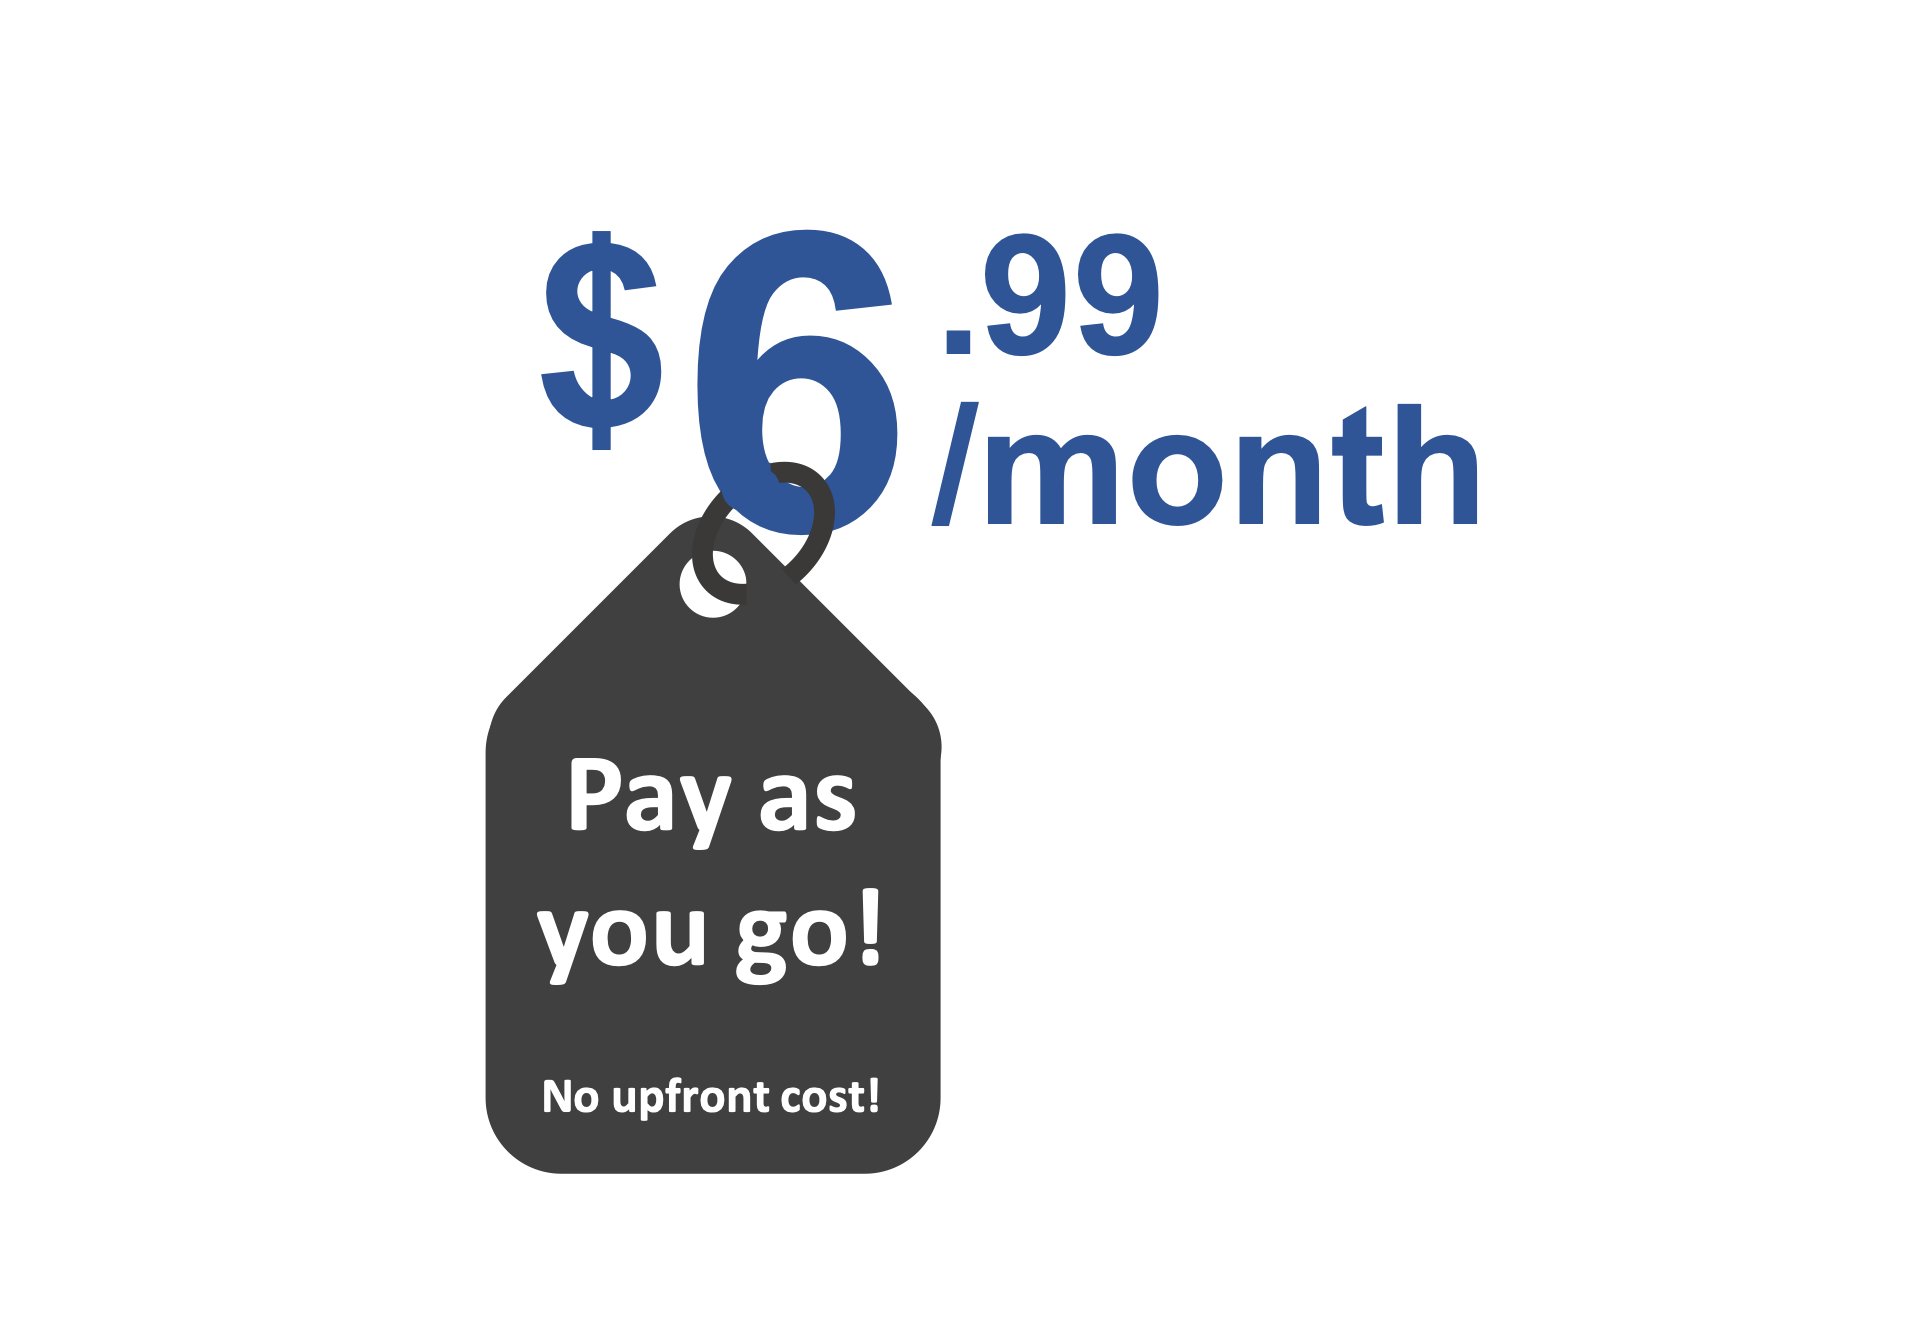
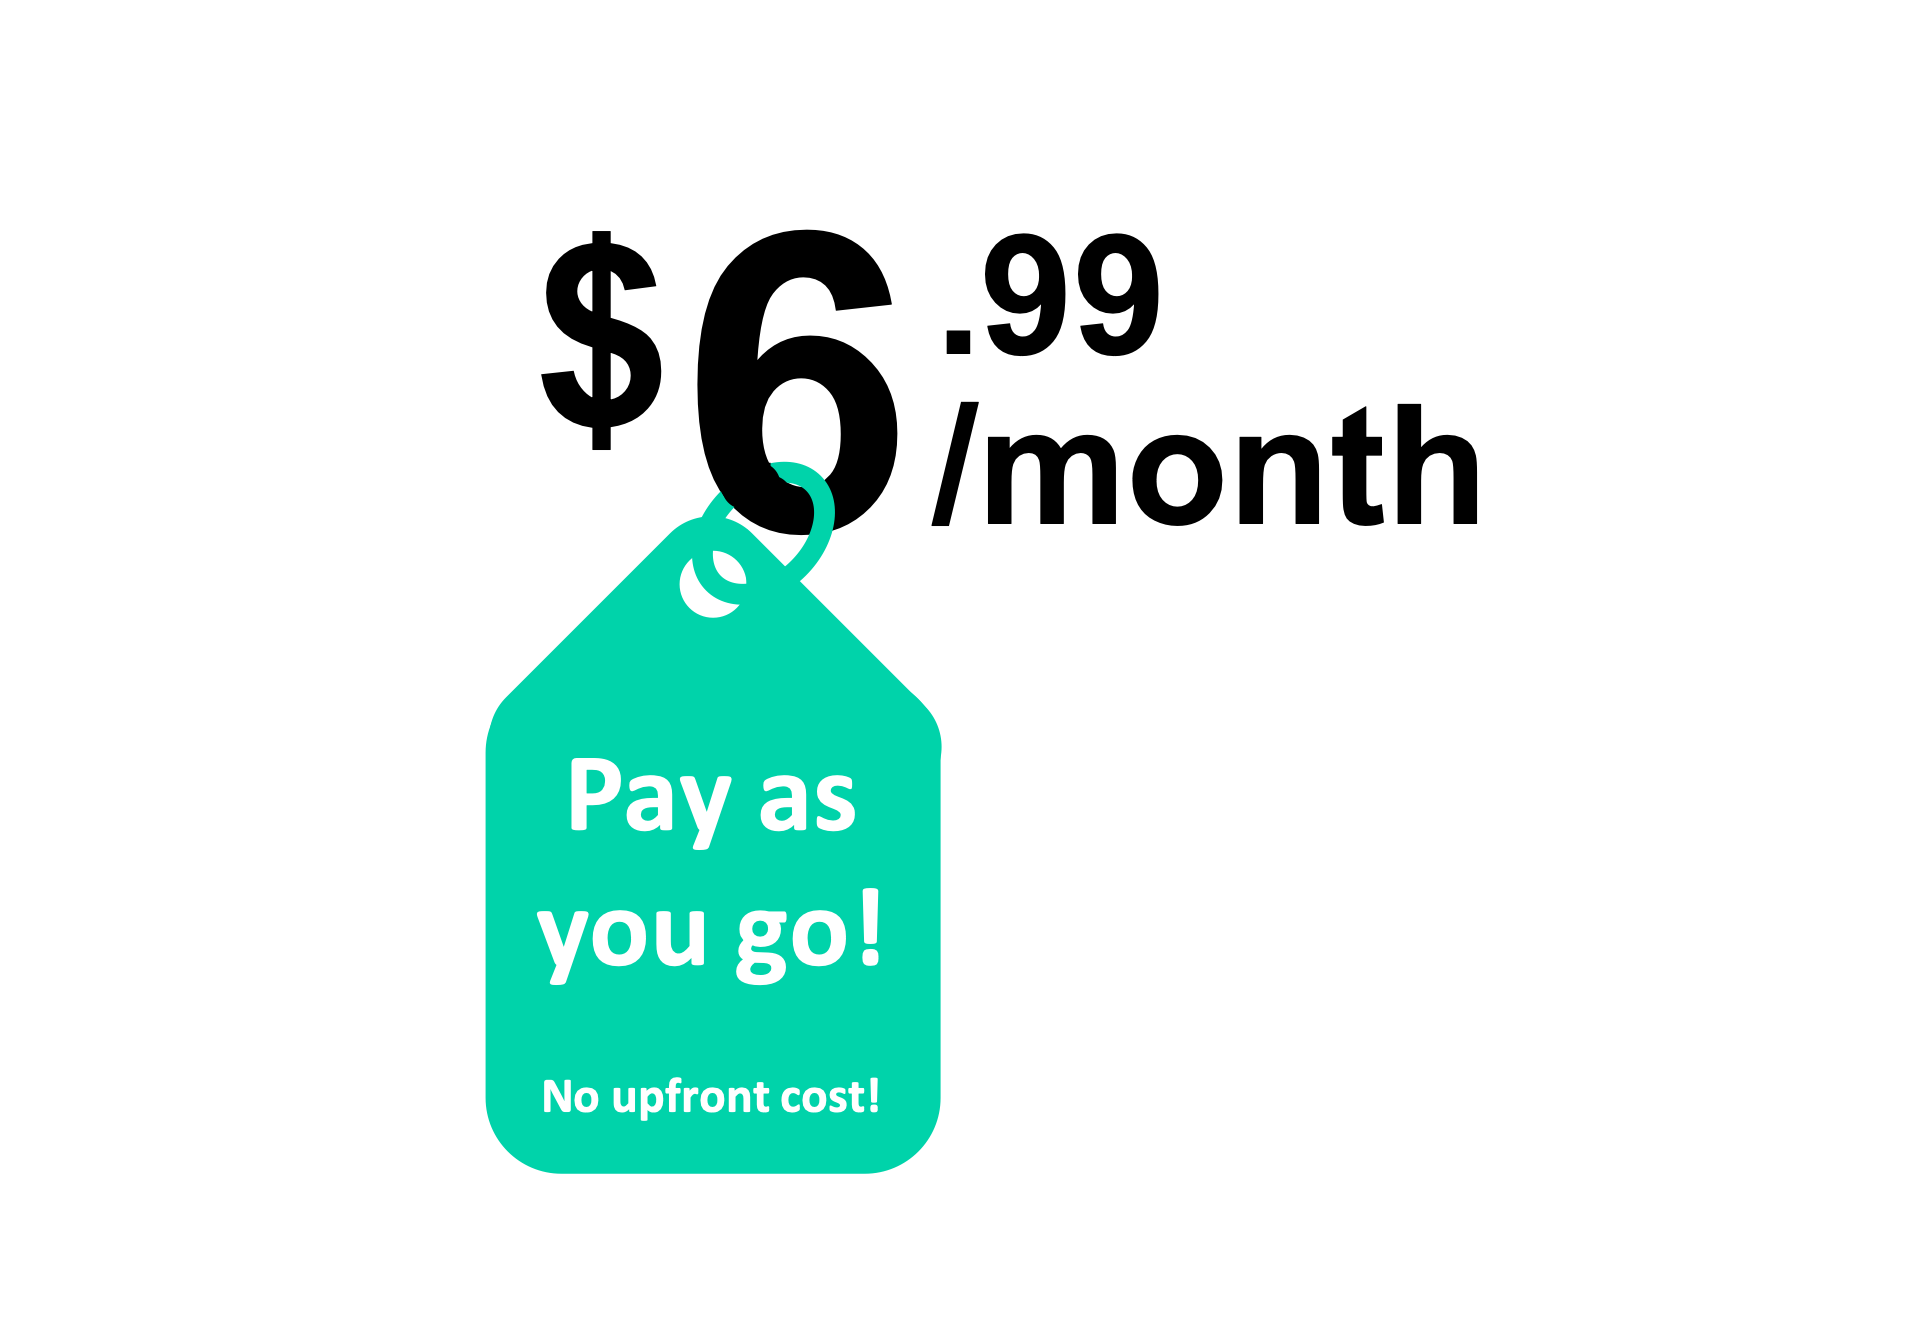
changed price color.

Changed region(s): [[0.2497, 0.1553, 0.7804, 0.9008]]

diff --git a/index.html b/index.html
@@ -78,7 +78,6 @@
                 <li><a href="#cam-section" class="nav-link">Our Cams</a></li>
                 <li><a href="#pricing-section" class="nav-link">Pricing</a></li>
                 <li><a href="#demo-section" class="nav-link">Demo</a></li>
-              <!--   <li><a href="#order-section" class="nav-link" onclick="openForm('order-section');" class="btn btn-primary mr-2 mb-2" style="display: block;">Order Now</a></li> -->
                 <li><a href="https://apps.apple.com/us/app/visual-one/id1491839972" class="nav-link">Download</a></li>
               </ul>
             </nav>
@@ -112,7 +111,7 @@
             <!-- <div class="row ">
               <div class="col-lg-5 col-sm-5 "> -->
                 <h1>Your<br/>24/7<br/>Watchman</h1></br>
-                <p class="mb-5">Enabling your surveillance cameras to recognize what matters to you!<br>Create custom alerts for events you care about, get notified when they happen.</p>
+                <p class="mb-5">Enabling your surveillance cameras to recognize what matters to you!<br>Create custom alerts for events you care about. Get notified when they happen.</p>
                 <div>
                   <a href="#features-section" class="btn btn-primary mr-2 mb-2">Learn More</a>
                 </div>
@@ -208,10 +207,10 @@
               </div>
               <div>
                 
-                <p>Elderly taking her medications.</p>
-                <p>Elderly had a fall.*</p>
-                <p>Elderly in the bed for too long.</p>
-                <p>Elderly performing specific exercise.*</p>
+                <p>Elderly person taking her medications.</p>
+                <p>Elderly person had a fall.*</p>
+                <p>Elderly person in the bed for too long.</p>
+                <p>Elderly person performing exercise.*</p>
               </div>
             </div>
           </div>

diff --git a/css/style.css b/css/style.css
@@ -249,7 +249,7 @@ h1, h2, h3, h4, h5,
   .ul-check.white li:before {
     color: #fff; }
   .ul-check.success li:before {
-    color: #8bc34a; }
+    color: #00d2b5; }
   .ul-check.primary li:before {
     color: #00d2b5; }
 
